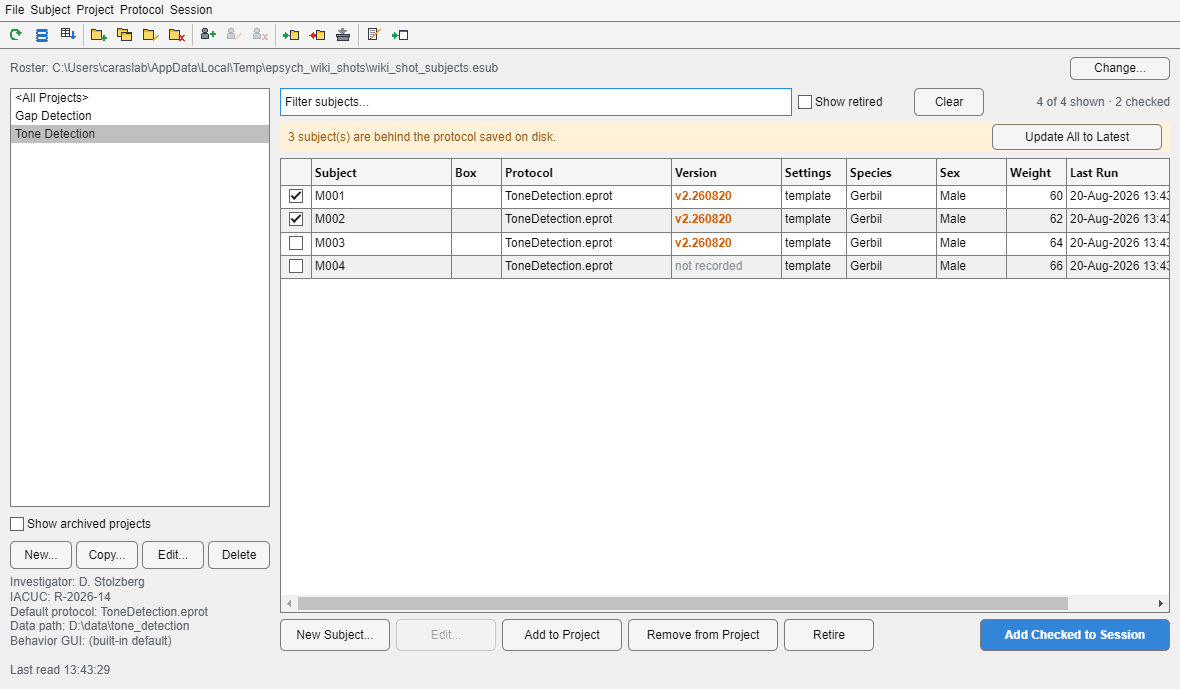
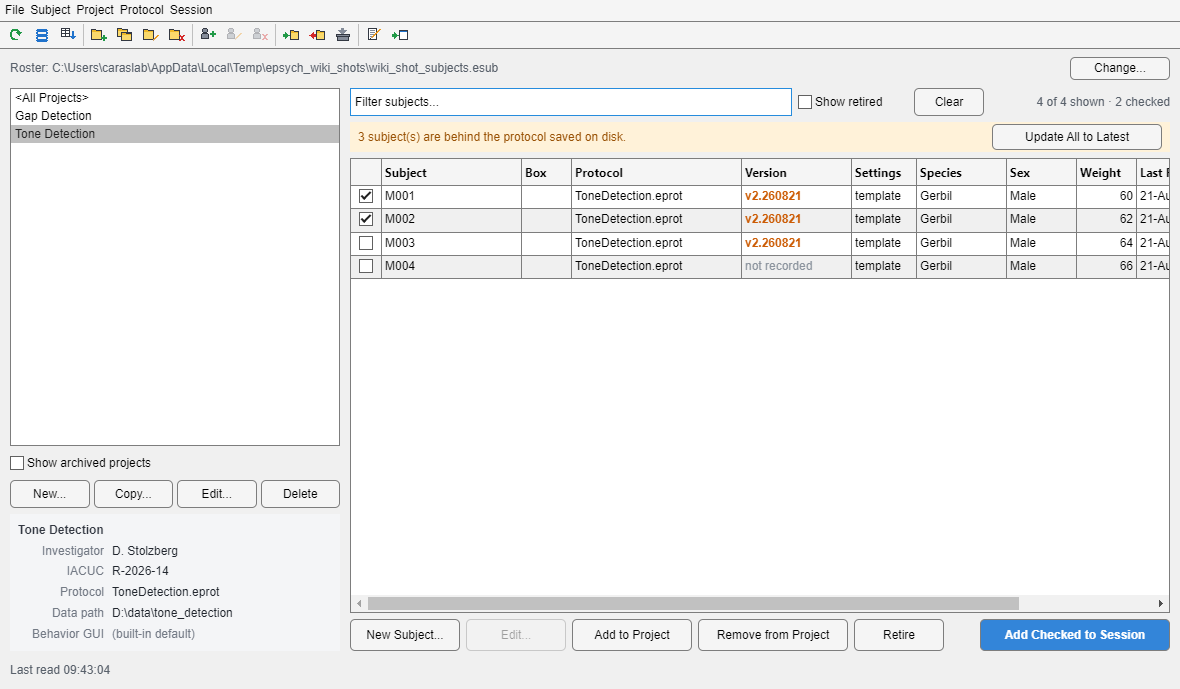
Correct the Self-Test GUI group and refresh the Subjects window shot
- documentation/overviews/RunExpt_SelfTest.md: the GUI wiring & state group
  no longer round-trips a configuration through save/load -- check I4 went
  with the .ecfg subsystem. It now describes what checkGui actually runs:
  handles, tag conventions, the I3 state-machine cycle, the I5 event
  broadcaster, and the I6 behavior GUI launch.
- documentation/gui/images/SubjectManager.png: regenerated against master.
  gui.SubjectManager.buildUI replaced the project summary and link strip
  with the read-only info card and widened the left column to 330 px, so
  the published shot no longer matched the window.

diff --git a/documentation/overviews/RunExpt_SelfTest.md b/documentation/overviews/RunExpt_SelfTest.md
@@ -75,7 +75,7 @@ Compilation always happens on an isolated copy of the protocol, so the self-test
 
 The default saving function is interactive, so the self-test deliberately does not invoke it. The per-trial round trip covers the disk path it eventually writes to.
 
-**GUI wiring & state** — that every handle the window's code depends on exists, that the control tag conventions the state machine relies on are intact, that the configuration survives a save/load round trip unchanged, and that the event broadcaster reaches its listeners.
+**GUI wiring & state** — that every handle the window's code depends on exists, that the control tag conventions the state machine relies on are intact, that the state machine cycles through its states with the right controls enabled at each one, that the event broadcaster reaches its listeners, and that the configured behavior GUI constructs and tears down.
 
 ## 5) Logging
 
